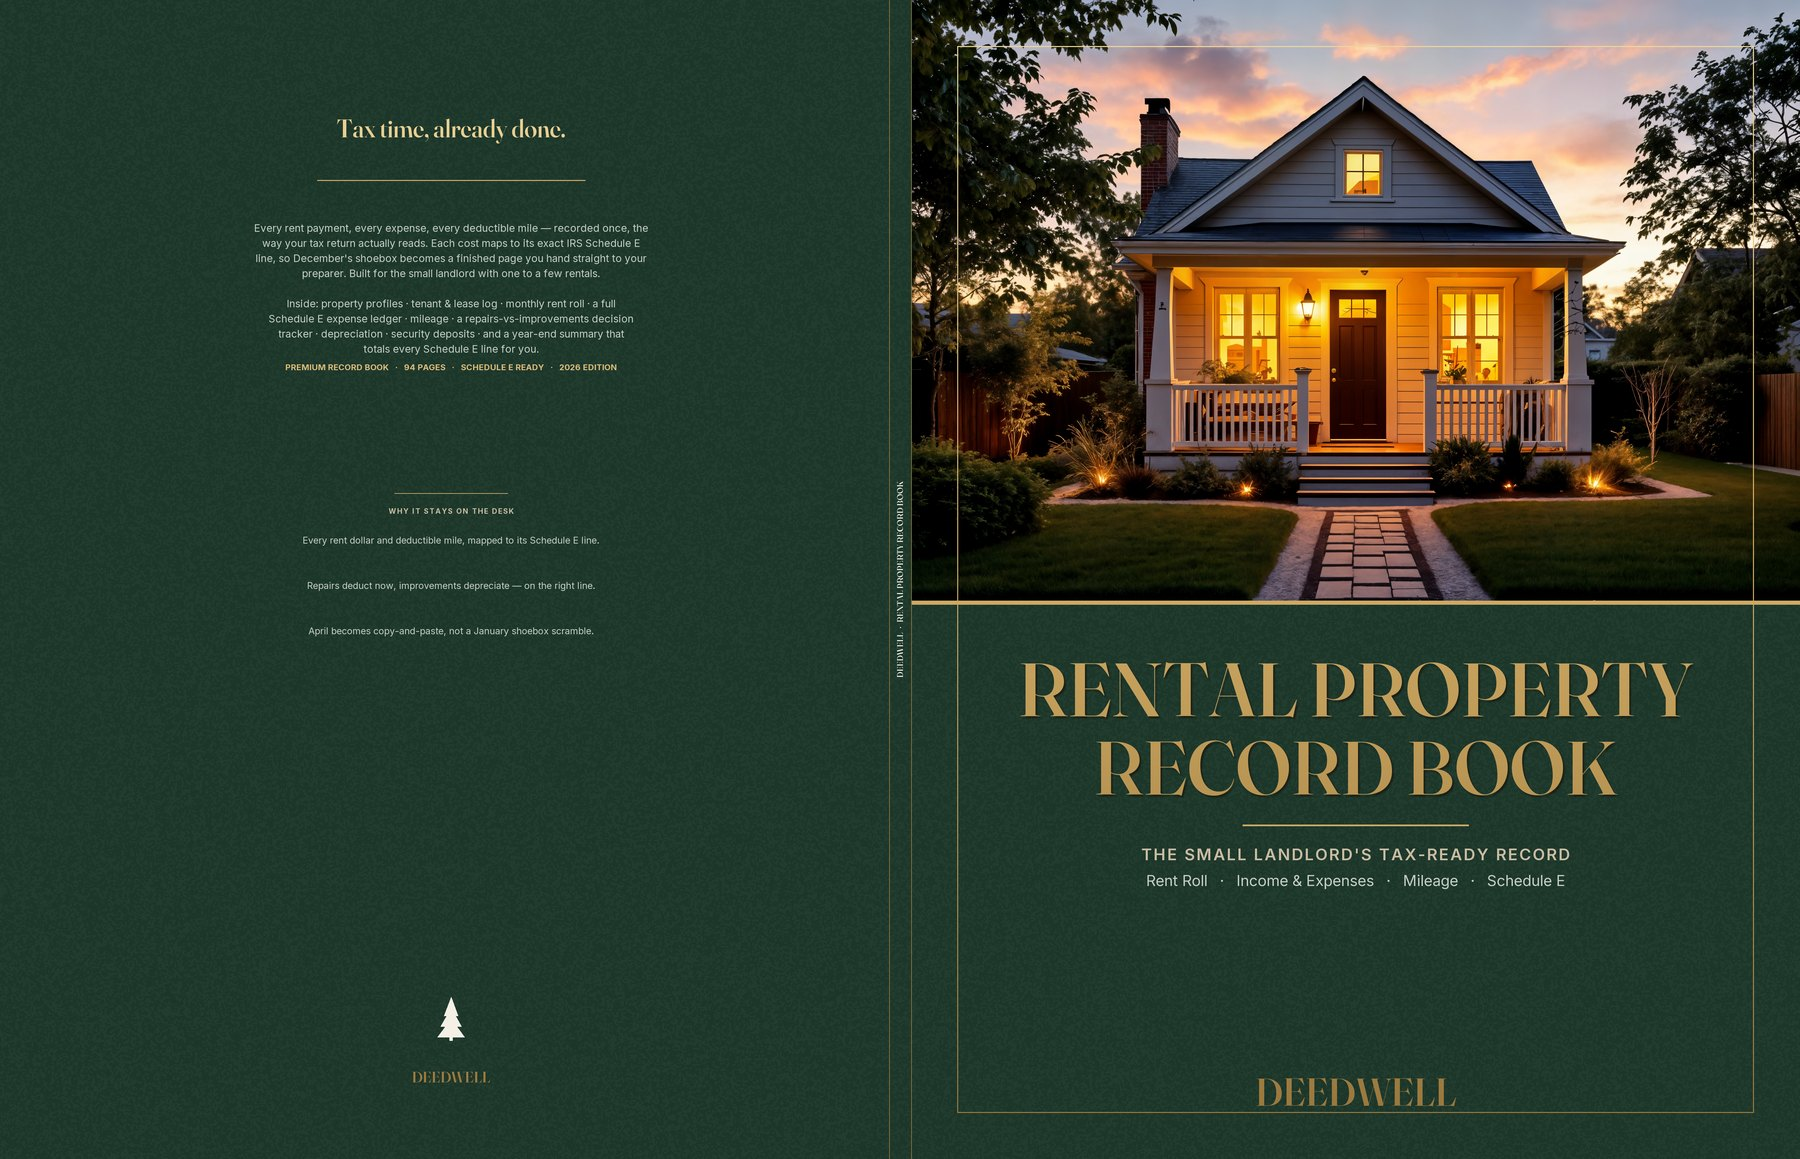
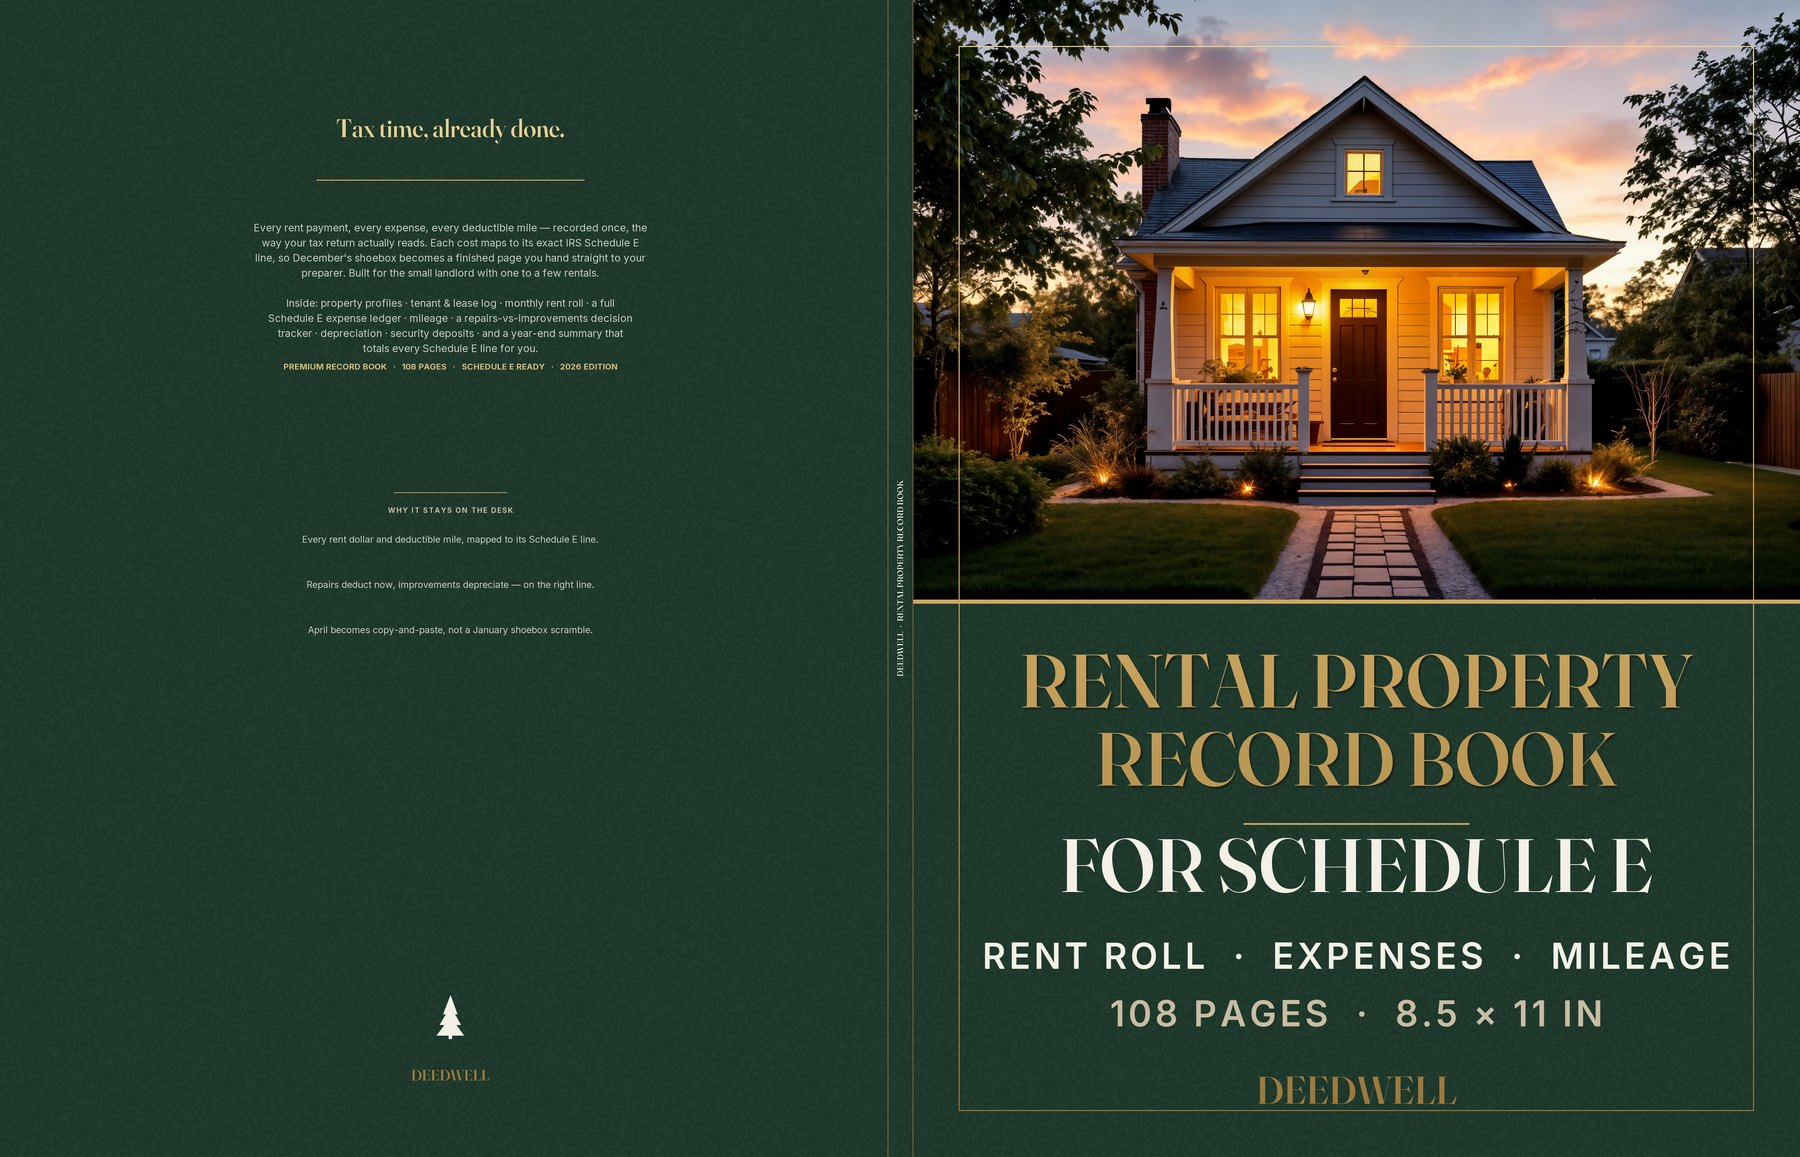
the 94 -> 108 repagination reached the book and not one page a customer sees
The interior grew from 94 to 108 pages this afternoon (12 more expense ledgers,
mileage 6 -> 8) and the wrap moved with it, correctly, because the wrap DERIVES
its spine. Nothing else did. Seven stale claims were live across four pages:

  index.html:7,294        "94 pages" - one of them the meta description
  checklist/index.html    :303 "94-page", :335 "94 pages"
  rental/index.html:225   "Paperback - 94 pages"
  review/index.html:42,86 "the 94-page book", spine "0.2117 inches"

rental/ is the page the QR printed permanently inside the book resolves to
(verified by decoding the asset: https://deedwell.co/rental/), so it was serving
a wrong spec to the only people who can reach it by scanning. Same defect class
as 07:18, 11:01 and 12:20 today: a number corrected at source that never reached
the surfaces stating it.

review/ could not be text-edited. Its six images are rendered FROM the book, so
changing only the captions would have manufactured proof - the 16:20 defect. It
is regenerated instead (B, E and F changed; A, C and D are byte-identical because
their sources did not move), and its two remaining false claims are fixed with
measured values: the last rendered ledger is p.74 not p.62, and the mileage year
total is p.82 - p.68 is an expense ledger.

TWO THINGS ADDED TO rental/, which sells to a reader holding the book:

1. The per-page Schedule E tally strip was absent from the copy. [[Home]] records
[…]

diff --git a/review/index.html b/review/index.html
@@ -39,7 +39,7 @@ a{color:var(--cedar)}
     <p class="eyebrow">Cedarstone Ventures LLC &middot; internal &middot; 26 July 2026</p>
     <h1>Deedwell #1 &mdash; everything a customer touches</h1>
     <p>Final state before publishing. Nothing is live on Amazon. Every page below is rendered from the actual built file, not a mockup.</p>
-    <p class="stamp">Rebuilt 26 July from the 94-page book as it stands now. The first version of this page was built on 25 July and never regenerated, so until today it showed you the older book &mdash; an earlier cover line, and ledger pages without their tally strip. Provenance for every image: <a href="img/MANIFEST.json">MANIFEST.json</a>.</p>
+    <p class="stamp">Rebuilt 26 July from the 108-page book as it stands now. This page has now gone stale twice: once showing the 25 July book, and again this afternoon when the interior grew from 94 to 108 pages and the captions here still described the old one. Both times it would have shown you a book we no longer ship. The build now reads this page and refuses to run if any claim on it disagrees with the book. Provenance for every image: <a href="img/MANIFEST.json">MANIFEST.json</a>.</p>
   </div>
 </header>
 
@@ -62,7 +62,7 @@ a{color:var(--cedar)}
   <section>
     <span class="tag">Inside</span>
     <h2>Nine more pages from the body</h2>
-    <p class="note">Every expense ledger page (p.33 and p.62 here) ends in a 15-box strip that totals the page by Schedule E line, so a year of entries adds up instead of just piling up. The mileage pages carry the 2026 split rate &mdash; 72.5 cents to 30 June under Notice 2026-10, 76 cents from 1 July under Announcement 2026-11 &mdash; and p.68 totals the two halves separately onto Schedule E line 6. A book that prints one rate for 2026 gives you nowhere to split it.</p>
+    <p class="note">All 42 expense ledger pages (p.33 and p.74 here) end in a 15-box strip that totals the page by Schedule E line, so a year of entries adds up instead of just piling up. The twelve monthly rent rolls close the same way, though totalled by property onto Schedule E line 3 rather than by line &mdash; 54 pages that add themselves up, in all. The mileage pages carry the 2026 split rate &mdash; 72.5 cents to 30 June under Notice 2026-10, 76 cents from 1 July under Announcement 2026-11 &mdash; and p.82 totals the two halves separately onto Schedule E line 6. A book that prints one rate for 2026 gives you nowhere to split it.</p>
     <img src="img/B_interior_pages.jpg" alt="Nine interior pages">
   </section>
 
@@ -74,16 +74,16 @@ a{color:var(--cedar)}
   </section>
 
   <section>
-    <span class="tag">The free giveaway</span>
+    <span class="tag">The free checklist</span>
     <h2>The checklist behind the QR code</h2>
-    <p class="note">Two pages, free, no email required. Reached by scanning the code printed in the back of the book. <a href="/rental/">The page it opens is here</a>.</p>
+    <p class="note">Two pages, free, no email required. The QR code printed in the back of the book opens this. <strong>Changed this afternoon:</strong> the back matter no longer offers it as a free gift. KDP's bonus content policy states that promises of gifts or rewards are never allowed in the book, so that page now carries a plain publisher line and the code, and nothing is promised in print. <a href="/rental/">The page it opens is here</a>.</p>
     <img src="img/D_free_checklist.jpg" alt="The free Schedule E deduction checklist, two pages">
   </section>
 
   <section>
     <span class="tag">For the printer</span>
     <h2>The full print wrap</h2>
-    <p class="note">Back cover, spine and front as one piece. Spine width is 0.2117 inches, derived from 94 pages, and the bottom-right corner of the back is left clear for Amazon's barcode.</p>
+    <p class="note">Back cover, spine and front as one piece. Spine width is 0.2432 inches, derived from 108 pages, and the bottom-right corner of the back is left clear for Amazon's barcode.</p>
     <img src="img/F_print_wrap.jpg" alt="Full print wrap: back cover, spine and front">
   </section>
 

diff --git a/rental/index.html b/rental/index.html
@@ -106,6 +106,14 @@ header{position:sticky;top:0;z-index:20;background:rgba(250,247,240,.97);backdro
 .getrow{display:flex;flex-wrap:wrap;gap:14px;align-items:center}
 .nofee{font-size:.88rem;color:var(--dim)}
 .nofee b{color:var(--cedar)}
+/* Everyone who scans the QR printed in the back of the book has already bought it.
+   Until 2026-07-26 this page had no line addressed to them and no link to /updates/,
+   so the one route from a paying customer to anything we own was a dead end. */
+.fromqr{margin-top:26px;padding-top:16px;border-top:1px solid var(--line);
+  font-size:.9rem;color:var(--dim);max-width:58ch}
+.fromqr a{color:var(--cedar);font-weight:500;text-decoration:none;
+  border-bottom:1px solid rgba(31,61,47,.32)}
+.fromqr a:hover{border-bottom-color:var(--cedar)}
 
 /* card */
 .grid2{display:grid;grid-template-columns:1fr;gap:34px;align-items:start;padding:48px 0}
@@ -170,6 +178,7 @@ footer a{color:var(--stone-soft)}
       <a class="btn" href="/files/Deedwell-Schedule-E-Deduction-Checklist.pdf" download>Download the PDF</a>
       <span class="nofee"><b>No signup.</b> No email. It downloads straight away.</span>
     </div>
+    <p class="fromqr">Scanned the code in the back of the record book? This checklist is yours, and nothing is asked for it. <a href="/updates/">What changes each tax year, and how to register your copy</a>.</p>
   </div>
 
   <div class="wrap grid2" id="checklist">
@@ -220,9 +229,9 @@ footer a{color:var(--stone-soft)}
     <div class="wrap">
       <p class="eyebrow">If the checklist earns a spot on your desk</p>
       <h2 class="sec">The Rental Property Record Book</h2>
-      <p class="lead">The checklist tells you where a cost belongs. The record book gives you somewhere to put it, all year, in the order your tax return reads. It is built backwards from Schedule E: a plain-English map of every line, a worked example month, twelve monthly rent rolls, a full-year expense ledger, mileage with the 2026 split rate already handled, a repairs versus improvements tracker, depreciation, and a year-end summary you copy straight onto the form.</p>
+      <p class="lead">The checklist tells you where a cost belongs. The record book gives you somewhere to put it, all year, in the order your tax return reads. It is built backwards from Schedule E: a plain-English map of every line, a worked example month, twelve monthly rent rolls, 42 expense-ledger pages that each close with their own 15-box Schedule E tally so a year of entries adds up instead of piling up, mileage with the 2026 split rate already handled, a repairs versus improvements tracker, depreciation, and a year-end summary you copy straight onto the form.</p>
       <p class="lead" style="margin-top:14px"><strong>So you know what it is:</strong> a structured record book organised around one tax form, for the landlord with one to a few rentals. It is not a blank ledger and it is not software. If you want free-form columns, a plain ledger will serve you better and cost less.</p>
-      <p class="meta">Paperback &middot; 94 pages &middot; 8.5 x 11 inches &middot; published by Deedwell, a brand of Cedarstone Ventures LLC</p>
+      <p class="meta">Paperback &middot; 108 pages &middot; 8.5 x 11 inches &middot; published by Deedwell, a brand of Cedarstone Ventures LLC</p>
       <p class="meta" style="margin-top:6px">Coming to Amazon shortly. The checklist above is yours regardless, free and with nothing to sign up for.</p>
     </div>
   </section>

diff --git a/index.html b/index.html
@@ -4,7 +4,7 @@
 <meta charset="utf-8">
 <meta name="viewport" content="width=device-width, initial-scale=1">
 <title>Deedwell | The Rental Property Record Book</title>
-<meta name="description" content="A structured record book for small landlords, built backwards from IRS Schedule E. Every expense mapped to its exact line, a worked example month, and a mileage log built for 2026's split rate. 94 pages, 8.5 x 11.">
+<meta name="description" content="A structured record book for small landlords, built backwards from IRS Schedule E. Every expense mapped to its exact line, a worked example month, and a mileage log built for 2026's split rate. 108 pages, 8.5 x 11.">
 <link rel="canonical" href="https://deedwell.co/">
 <meta name="theme-color" content="#16301F">
 <meta name="color-scheme" content="light">
@@ -291,7 +291,7 @@ footer .legal{display:flex;flex-wrap:wrap;gap:14px;justify-content:space-between
         <a class="btn" href="#buy">See the record book</a>
         <a class="btn ghost" href="/checklist/">Free deduction checklist</a>
       </div>
-      <p class="micro">Built for the landlord with one to a few rentals. <strong class="num">94 pages</strong>, 8.5&nbsp;&times;&nbsp;11. No app, no login, no subscription. You write in it. The checklist is free and needs no email.</p>
+      <p class="micro">Built for the landlord with one to a few rentals. <strong class="num">108 pages</strong>, 8.5&nbsp;&times;&nbsp;11. No app, no login, no subscription. You write in it. The checklist is free and needs no email.</p>
     </div>
 
     <div class="shot">

diff --git a/checklist/index.html b/checklist/index.html
@@ -300,7 +300,7 @@ footer .legal{display:flex;justify-content:space-between;gap:20px;flex-wrap:wrap
         <div class="eyebrow">Where the checklist came from</div>
         <h2>A checklist reminds you. A record book catches it on the day.</h2>
         <p>This list can only prompt your memory in April. The <b>Rental Property Record&nbsp;Book</b> is the
-          94-page, 8.5&nbsp;&times;&nbsp;11 paperback the list came out of: a structured place to write each
+          108-page, 8.5&nbsp;&times;&nbsp;11 paperback the list came out of: a structured place to write each
           number down when it happens, arranged in the order Schedule&nbsp;E reads, with a plain-English map
           pairing every expense to its exact IRS line.</p>
         <p style="margin-top:26px"><a class="btn" href="/#pages">See the pages</a></p>
@@ -332,7 +332,7 @@ footer .legal{display:flex;justify-content:space-between;gap:20px;flex-wrap:wrap
       </div>
       <div>
         <a class="btn" href="/#inside">What&rsquo;s inside the book</a>
-        <p class="fine">94 pages, 8.5&nbsp;&times;&nbsp;11. The checklist above stays free either way.</p>
+        <p class="fine">108 pages, 8.5&nbsp;&times;&nbsp;11. The checklist above stays free either way.</p>
       </div>
     </div>
   </div>
